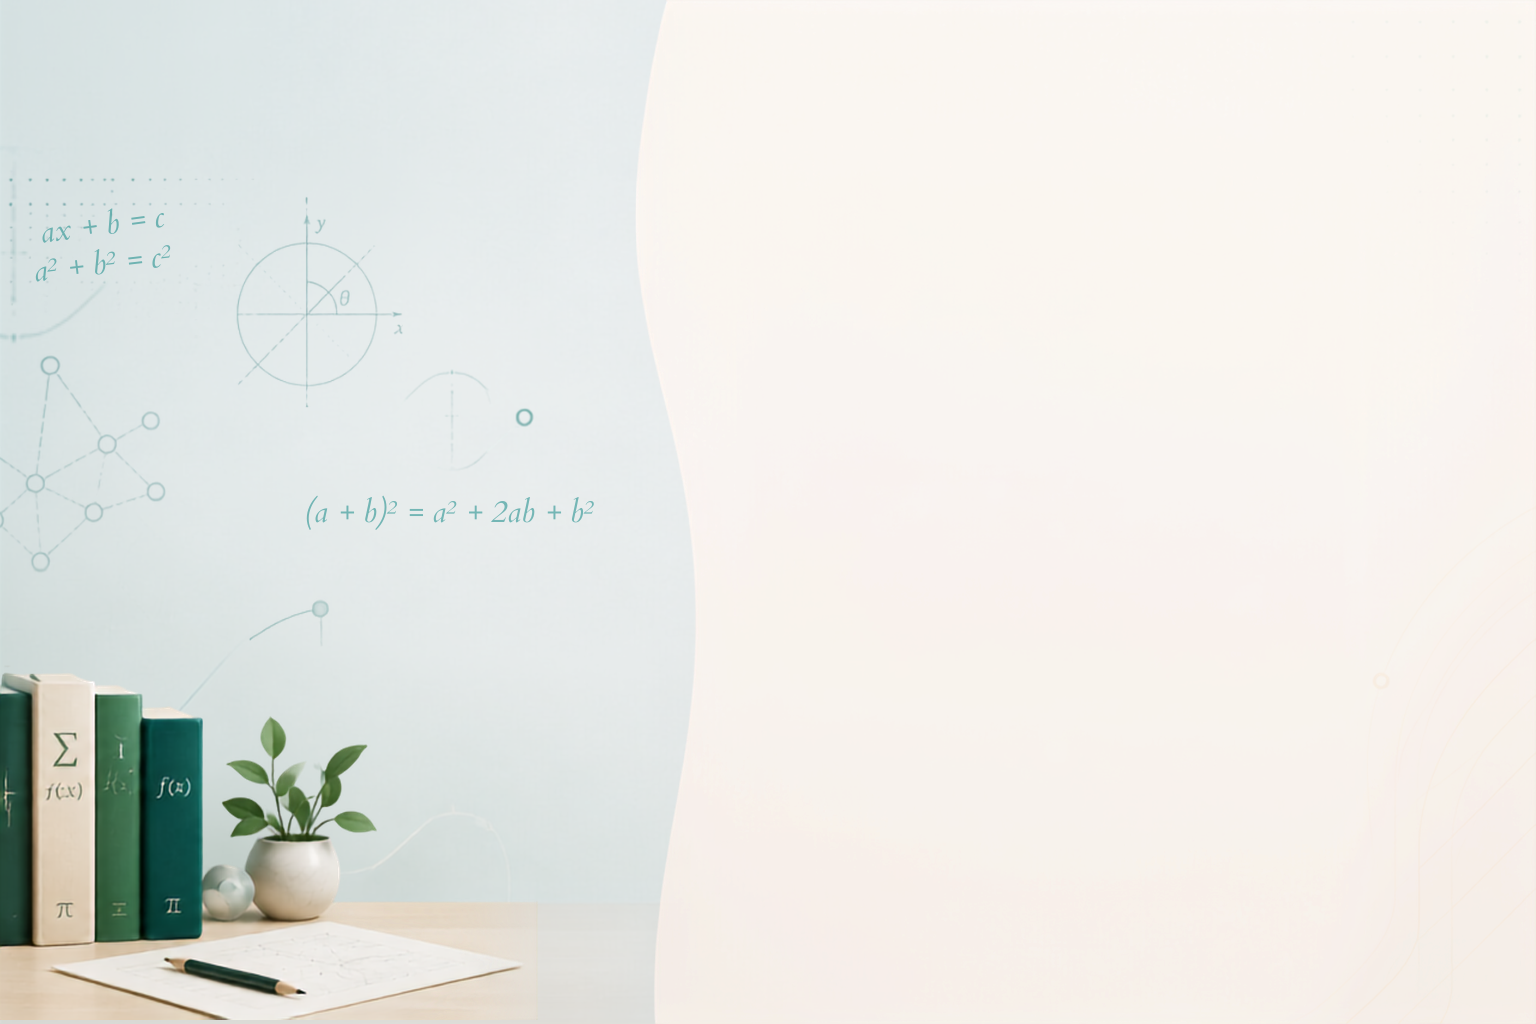
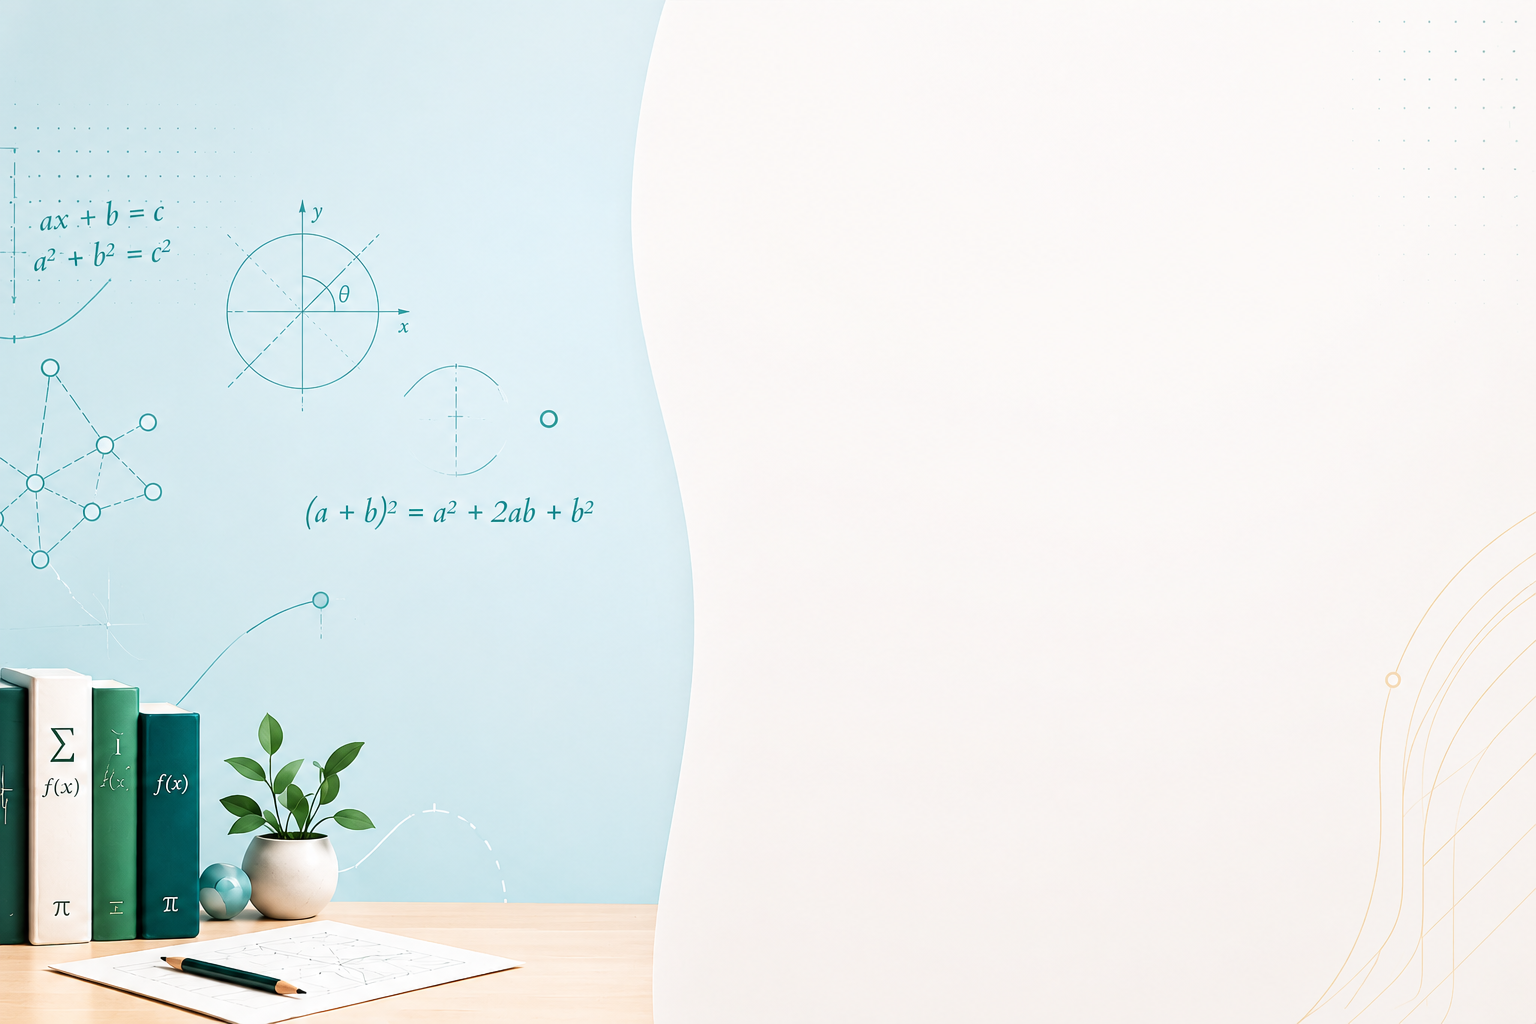
image bg login

diff --git a/src/pages/mahasiswa/StudentDashboard.jsx b/src/pages/mahasiswa/StudentDashboard.jsx
@@ -54,7 +54,7 @@ const StudentDashboard = () => {
     ) : !modulAktif ? (
       <div className="rounded-2xl border border-gray-100 bg-white p-12 text-center text-gray-400">Belum ada modul tersedia.</div>
     ) : <div className="space-y-5">
-      <Motion.section initial={{ opacity: 0, y: 10 }} animate={{ opacity: 1, y: 0 }} className="relative overflow-hidden rounded-2xl bg-gradient-to-r from-blue-800 to-blue-700 p-6 text-white shadow-lg shadow-blue-900/10">
+      <Motion.section initial={{ opacity: 0, y: 10 }} animate={{ opacity: 1, y: 0 }} className="relative overflow-hidden rounded-2xl bg-gradient-to-r from-blue-800 to-blue-700 p-4 text-white shadow-lg shadow-blue-900/10 sm:p-6">
         <div className="pointer-events-none absolute -right-10 -top-12 h-48 w-48 rounded-full bg-white/5" />
         <div className="relative flex flex-col gap-6 sm:flex-row sm:items-end sm:justify-between">
           <div>
@@ -63,11 +63,11 @@ const StudentDashboard = () => {
             <p className="mt-4 text-xs text-blue-100">{progressModul} dari {totalModul} bab lulus</p>
             <div className="mt-2 h-2 w-56 max-w-full overflow-hidden rounded-full bg-white/20"><div className="h-full rounded-full bg-white transition-all" style={{ width: `${persen}%` }} /></div>
           </div>
-          <button onClick={lanjutkan} className="flex h-12 items-center justify-center gap-2 rounded-xl bg-white px-5 text-sm font-bold text-blue-800 shadow-sm transition hover:-translate-y-0.5 hover:bg-blue-50"><Rocket size={17} /> {pretestDone ? "Lanjutkan Belajar" : "Mulai Pretest"}</button>
+          <button onClick={lanjutkan} className="flex h-12 w-full items-center justify-center gap-2 rounded-xl bg-white px-5 text-sm font-bold text-blue-800 shadow-sm transition hover:-translate-y-0.5 hover:bg-blue-50 sm:w-auto"><Rocket size={17} /> {pretestDone ? "Lanjutkan Belajar" : "Mulai Pretest"}</button>
         </div>
       </Motion.section>
 
-      <section className="grid grid-cols-2 gap-3 lg:grid-cols-4">
+      <section className="grid grid-cols-1 gap-3 min-[380px]:grid-cols-2 lg:grid-cols-4">
         {[
           { icon: <BookOpen size={19} />, color: "text-green-600 bg-green-50", label: "Modul Aktif", value: data.modul.length, note: modulAktif.nama_domain },
           { icon: <Circle size={19} />, color: "text-violet-600 bg-violet-50", label: "Bab Lulus", value: `${babLulus.length} / ${semuaBab.length}`, note: `${semuaBab.length - babLulus.length} bab tersisa` },

diff --git a/src/pages/dosen/ManageMateri.jsx b/src/pages/dosen/ManageMateri.jsx
@@ -243,7 +243,7 @@ const ManageMateri = () => {
   return (
     <DashboardLayout role="dosen" title="Kelola Materi" subtitle="Ekstraksi modul PDF, klasifikasi video YouTube, dan struktur Knowledge Graph.">
 
-      <div className="flex gap-2 mb-6 overflow-x-auto pb-1">
+      <div className="-mx-3 mb-6 flex gap-2 overflow-x-auto px-3 pb-2 sm:mx-0 sm:px-0">
         {TABS.map((t) => (
           <button
             key={t.id}
@@ -258,7 +258,7 @@ const ManageMateri = () => {
       </div>
 
       {tab === "pdf" && (
-        <div className="bg-white rounded-2xl shadow-sm border border-gray-100 p-6 max-w-2xl">
+        <div className="max-w-2xl rounded-2xl border border-gray-100 bg-white p-4 shadow-sm sm:p-6">
           <div className="flex items-center gap-3 mb-6">
             <div className="w-10 h-10 rounded-xl bg-blue-50 flex items-center justify-center text-blue-600">
               <FileText size={20} />
@@ -317,7 +317,7 @@ const ManageMateri = () => {
       )}
 
       {tab === "youtube" && (
-        <div className="bg-white rounded-2xl shadow-sm border border-gray-100 p-6 max-w-2xl">
+        <div className="max-w-2xl rounded-2xl border border-gray-100 bg-white p-4 shadow-sm sm:p-6">
           <div className="flex items-center gap-3 mb-6">
             <div className="w-10 h-10 rounded-xl bg-red-50 flex items-center justify-center text-red-600">
               <Youtube size={20} />
@@ -789,7 +789,7 @@ const ManageMateri = () => {
 
           {editKonsepDropdown && <div className="fixed inset-0 z-10" onClick={() => setEditKonsepDropdown(false)} />}
 
-          <div className="flex gap-3 relative z-20">
+          <div className="relative z-20 flex flex-col gap-3 sm:flex-row">
             <button
               onClick={closeEditVideo}
               className="flex-1 py-3 rounded-2xl font-bold bg-gray-100 hover:bg-gray-200 text-gray-700 transition-all"
@@ -818,7 +818,7 @@ const ManageMateri = () => {
             </p>
           </div>
           {deleteVideoError && <p className="text-sm text-red-600 font-medium">{deleteVideoError}</p>}
-          <div className="flex gap-3">
+          <div className="flex flex-col gap-3 sm:flex-row">
             <button
               onClick={() => { setDeleteVideoTarget(null); setDeleteVideoError("") }}
               className="flex-1 py-3 rounded-2xl font-bold bg-gray-100 hover:bg-gray-200 text-gray-700 transition-all"

diff --git a/src/pages/Login.jsx b/src/pages/Login.jsx
@@ -44,7 +44,7 @@ const Login = () => {
     <main className="relative min-h-screen overflow-x-hidden bg-[#F8F5F0] bg-[url('/img/bg-login.png')] bg-cover bg-[position:38%_center] lg:bg-center">
       <div className="absolute inset-0 bg-white/30 sm:bg-white/15 lg:hidden" aria-hidden="true" />
 
-      <div className="relative z-10 grid min-h-screen grid-rows-[1fr_auto] px-4 py-6 sm:px-8 sm:py-8 lg:grid-cols-[43%_57%] lg:grid-rows-[1fr_auto] lg:px-0 lg:py-0">
+      <div className="relative z-10 grid min-h-dvh grid-rows-[1fr_auto] px-3 py-4 sm:px-8 sm:py-8 lg:grid-cols-[43%_57%] lg:grid-rows-[1fr_auto] lg:px-0 lg:py-0">
         <div className="hidden lg:block" aria-hidden="true" />
 
         <section className="flex items-center justify-center lg:px-12 xl:px-20 2xl:px-28">
@@ -52,9 +52,9 @@ const Login = () => {
             initial={{ opacity: 0, y: 18 }}
             animate={{ opacity: 1, y: 0 }}
             transition={{ duration: 0.55, ease: "easeOut" }}
-            className="w-full max-w-[540px] rounded-[28px] border border-white/90 bg-white/94 px-5 py-8 shadow-[0_18px_55px_rgba(38,54,56,0.13)] backdrop-blur-md sm:px-9 sm:py-10 lg:rounded-[42px] lg:px-10 lg:py-12 xl:px-12 xl:py-14"
+            className="w-full max-w-[540px] rounded-[24px] border border-white/90 bg-white/94 px-4 py-6 shadow-[0_18px_55px_rgba(38,54,56,0.13)] backdrop-blur-md sm:rounded-[28px] sm:px-9 sm:py-10 lg:rounded-[42px] lg:px-10 lg:py-12 xl:px-12 xl:py-14"
           >
-            <header className="mb-8 flex items-center gap-4 sm:gap-5">
+            <header className="mb-6 flex items-center gap-3 sm:mb-8 sm:gap-5">
               <div className="flex h-14 w-14 shrink-0 items-center justify-center rounded-full border border-[#F6E3CC] bg-[#FFF5E9] text-gray-900 sm:h-16 sm:w-16">
                 <UserRound size={28} strokeWidth={1.8} aria-hidden="true" />
               </div>
@@ -125,7 +125,7 @@ const Login = () => {
                 </div>
               </div>
 
-              <div className="flex items-center justify-between gap-4 text-xs sm:text-sm">
+              <div className="flex flex-col gap-2 text-xs min-[380px]:flex-row min-[380px]:items-center min-[380px]:justify-between sm:text-sm">
                 <label className="flex cursor-pointer items-center gap-2.5 font-semibold text-gray-700">
                   <input
                     type="checkbox"

diff --git a/src/components/Sidebar.jsx b/src/components/Sidebar.jsx
@@ -47,11 +47,10 @@ const Sidebar = ({ isOpen, setIsOpen, role = "dosen" }) => {
       )}
 
       <aside className={`
-        fixed top-0 left-0 z-50 h-screen bg-white border-r border-gray-200 transition-transform duration-300 ease-in-out shadow-[4px_0_24px_rgba(17,24,39,0.025)]
-        w-64 lg:translate-x-0
+        fixed left-0 top-0 z-50 h-dvh w-[min(18rem,86vw)] border-r border-gray-200 bg-white shadow-[4px_0_24px_rgba(17,24,39,0.025)] transition-transform duration-300 ease-in-out sm:w-64 lg:translate-x-0
         ${isOpen ? "translate-x-0" : "-translate-x-full"}
       `}>
-        <div className="px-5 py-6 flex justify-between items-center border-b border-gray-100">
+        <div className="flex items-center justify-between border-b border-gray-100 px-5 pb-4 pt-[max(1.25rem,env(safe-area-inset-top))]">
           <h1 className="text-xl font-semibold text-gray-900 flex items-center gap-3">
             <div className="w-9 h-9 bg-blue-700 rounded-xl shrink-0 flex items-center justify-center text-white shadow-sm">
               {role === "mahasiswa" ? <GraduationCap size={18} /> : role === "admin" ? <ShieldCheck size={18} /> : <LayoutDashboard size={18} />}
@@ -63,7 +62,7 @@ const Sidebar = ({ isOpen, setIsOpen, role = "dosen" }) => {
           </button>
         </div>
 
-        <nav className="flex-1 px-3 py-5 space-y-1 overflow-y-auto h-[calc(100vh-166px)]">
+        <nav className="h-[calc(100dvh-158px)] flex-1 space-y-1 overflow-y-auto px-3 py-4">
           {menuItems.map((item) => {
             const isActive = location.pathname.startsWith(item.path)
             return (
@@ -88,7 +87,7 @@ const Sidebar = ({ isOpen, setIsOpen, role = "dosen" }) => {
           })}
         </nav>
 
-        <div className="absolute bottom-0 left-0 w-full p-4 border-t border-gray-100 bg-white">
+        <div className="absolute bottom-0 left-0 w-full border-t border-gray-100 bg-white px-4 pb-[max(1rem,env(safe-area-inset-bottom))] pt-3">
           <button onClick={handleLogout} className="w-full flex items-center gap-3 px-4 py-3 text-sm text-red-500 hover:bg-red-50 rounded-xl transition-colors">
             <LogOut size={20} />
             <span>Keluar</span>

diff --git a/src/components/DashboardLayout.jsx b/src/components/DashboardLayout.jsx
@@ -16,12 +16,12 @@ const DashboardLayout = ({ role = "dosen", title, subtitle, children }) => {
   }
 
   return (
-    <div className="flex min-h-screen bg-[#F6F7F8] font-sans text-gray-900">
+    <div className="flex min-h-dvh bg-[#F6F7F8] font-sans text-gray-900">
       <Sidebar isOpen={isSidebarOpen} setIsOpen={setIsSidebarOpen} role={role} />
 
-      <main className="flex-1 lg:ml-64 transition-all duration-300">
-        <header className="lg:hidden bg-white/90 backdrop-blur-xl border-b border-gray-200 px-4 py-3 sticky top-0 z-30 flex justify-between items-center">
-          <h1 className="font-display font-semibold text-blue-700">MathDasar</h1>
+      <main className="min-w-0 flex-1 transition-all duration-300 lg:ml-64">
+        <header className="sticky top-0 z-30 flex items-center justify-between border-b border-gray-200 bg-white/90 px-3 py-2.5 backdrop-blur-xl sm:px-5 lg:hidden">
+          <div className="min-w-0"><h1 className="truncate font-display font-semibold text-blue-700">MathDasar</h1><p className="truncate text-[11px] capitalize text-gray-400">{user.role || role}</p></div>
           <button
             onClick={() => setIsSidebarOpen(true)}
             className="p-2 bg-gray-100 rounded-lg"
@@ -59,10 +59,10 @@ const DashboardLayout = ({ role = "dosen", title, subtitle, children }) => {
           </div>
         </div>
 
-        <div className="p-4 md:p-8 max-w-7xl mx-auto">
+        <div className="mx-auto w-full max-w-7xl px-3 pb-[max(1rem,env(safe-area-inset-bottom))] pt-4 sm:px-5 md:p-8">
           {(title || subtitle) && (
             <div className="mb-8 max-w-3xl">
-              {title && <h1 className="text-2xl md:text-3xl font-semibold text-gray-900">{title}</h1>}
+              {title && <h1 className="text-xl font-semibold leading-tight text-gray-900 sm:text-2xl md:text-3xl">{title}</h1>}
               {subtitle && <p className="text-sm text-gray-500 mt-1.5 leading-relaxed">{subtitle}</p>}
             </div>
           )}

diff --git a/src/components/Modal.jsx b/src/components/Modal.jsx
@@ -8,7 +8,7 @@ const Modal = ({ open, onClose, title, children }) => (
         initial={{ opacity: 0 }}
         animate={{ opacity: 1 }}
         exit={{ opacity: 0 }}
-        className="fixed inset-0 bg-black/50 z-[60] flex items-center justify-center p-4"
+        className="fixed inset-0 z-[60] flex items-end justify-center bg-black/50 p-0 sm:items-center sm:p-4"
         onClick={onClose}
       >
         <motion.div
@@ -16,12 +16,12 @@ const Modal = ({ open, onClose, title, children }) => (
           animate={{ opacity: 1, y: 0, scale: 1 }}
           exit={{ opacity: 0, y: 20, scale: 0.98 }}
           transition={{ duration: 0.2 }}
-          className="bg-white rounded-3xl shadow-2xl w-full max-w-lg max-h-[85vh] overflow-y-auto p-6 md:p-8"
+          className="max-h-[92dvh] w-full max-w-lg overflow-y-auto overscroll-contain rounded-t-3xl bg-white p-4 pb-[max(1rem,env(safe-area-inset-bottom))] shadow-2xl sm:max-h-[85dvh] sm:rounded-3xl sm:p-6 md:p-8"
           onClick={(e) => e.stopPropagation()}
         >
-          <div className="flex items-center justify-between mb-6">
-            <h2 className="text-lg font-bold text-gray-900">{title}</h2>
-            <button onClick={onClose} className="p-2 rounded-full hover:bg-gray-100 text-gray-400 hover:text-gray-700 transition-colors">
+          <div className="sticky -top-4 z-10 mb-5 flex items-center justify-between gap-3 border-b border-gray-100 bg-white py-3 sm:static sm:mb-6 sm:border-0 sm:py-0">
+            <h2 className="min-w-0 text-base font-bold text-gray-900 sm:text-lg">{title}</h2>
+            <button onClick={onClose} className="flex h-11 w-11 shrink-0 items-center justify-center rounded-full text-gray-400 transition-colors hover:bg-gray-100 hover:text-gray-700" aria-label="Tutup dialog">
               <X size={20} />
             </button>
           </div>

diff --git a/src/pages/dosen/ManageSoal.jsx b/src/pages/dosen/ManageSoal.jsx
@@ -234,7 +234,7 @@ const ManageSoal = () => {
       ) : (
         <section className="overflow-hidden rounded-2xl border border-gray-100 bg-white shadow-sm">
           <div className="flex flex-col gap-4 border-b border-gray-100 p-5 sm:flex-row sm:items-center sm:justify-between">
-            <div className="flex gap-6">
+            <div className="flex gap-4 overflow-x-auto pb-1 sm:gap-6">
               <button type="button" onClick={() => setActiveTab("semua")} className={`flex items-center gap-2 border-b-2 pb-3 text-sm font-bold transition-colors ${activeTab === "semua" ? "border-blue-600 text-blue-700" : "border-transparent text-gray-400 hover:text-gray-700"}`}>
                 <ListChecks size={16} /> Semua Soal <span className="rounded-md bg-gray-100 px-1.5 py-0.5 text-[10px] text-gray-500">{totalSoal}</span>
               </button>
@@ -331,7 +331,7 @@ const ManageSoal = () => {
             />
           </div>
 
-          <div className="grid grid-cols-2 gap-4">
+          <div className="grid grid-cols-1 gap-4 sm:grid-cols-2">
             <div className="space-y-1">
               <label className="text-xs font-black text-slate-400 uppercase tracking-widest ml-1">Tipe</label>
               <select
@@ -442,7 +442,7 @@ const ManageSoal = () => {
                 />
               </div>
 
-              <div className="grid grid-cols-2 gap-4">
+              <div className="grid grid-cols-1 gap-4 sm:grid-cols-2">
                 <div className="space-y-1">
                   <label className="text-xs font-black text-slate-400 uppercase tracking-widest ml-1">Tipe</label>
                   <select

diff --git a/src/pages/mahasiswa/UjianModul.jsx b/src/pages/mahasiswa/UjianModul.jsx
@@ -18,7 +18,7 @@ const UjianModul = () => {
           const selesai = modul.bab.filter((bab) => ["lanjut", "pengayaan"].includes(progressMap[bab.id]?.status)).length
           const ujian = data.ujian_modul.find((item) => item.modul_id === modul.id) || {}
           const pretestSelesai = ["menunggu_penilaian", "dinilai"].includes(ujian.pretest)
-          return <article key={modul.id} className="flex min-h-64 flex-col rounded-2xl border border-gray-100 bg-white p-6 shadow-sm transition hover:-translate-y-0.5 hover:border-blue-200 hover:shadow-md">
+          return <article key={modul.id} className="flex min-h-64 flex-col rounded-2xl border border-gray-100 bg-white p-4 shadow-sm transition hover:-translate-y-0.5 hover:border-blue-200 hover:shadow-md sm:p-6">
             <span className="mb-5 flex h-12 w-12 items-center justify-center rounded-xl bg-blue-50 text-blue-700"><BookOpen size={22} /></span>
             <h2 className="text-lg font-semibold text-gray-900">{modul.nama_domain}</h2><p className="mt-1 text-sm text-gray-400">{modul.bab.length} bab</p>
             <div className="mt-5 flex-1 space-y-2 text-xs"><p className={`flex items-center gap-2 ${pretestSelesai ? "text-green-700" : "text-amber-700"}`}><CheckCircle2 size={14} /> Pretest {pretestSelesai ? "selesai" : "belum dikerjakan"}</p><p className="text-gray-500">Progres bab: {selesai}/{modul.bab.length} selesai</p></div>

diff --git a/src/pages/admin/RoleAccounts.jsx b/src/pages/admin/RoleAccounts.jsx
@@ -64,9 +64,9 @@ export default function RoleAccounts({ role }) {
   }
 
   return <DashboardLayout role="admin" title={`Kelola ${label}`} subtitle={`Tambah akun dan atur status ${label.toLowerCase()}.`}>
-    <div className="mb-6 flex items-center justify-between rounded-2xl border border-gray-100 bg-white p-5 shadow-sm">
+    <div className="mb-6 flex flex-col gap-4 rounded-2xl border border-gray-100 bg-white p-4 shadow-sm sm:flex-row sm:items-center sm:justify-between sm:p-5">
       <div><p className="text-sm text-gray-500">Total {label}</p><p className="mt-1 text-3xl font-bold text-gray-900">{users.length}</p></div>
-      <button onClick={() => setFormOpen(true)} className="flex items-center gap-2 rounded-xl bg-blue-700 px-4 py-3 text-sm font-bold text-white shadow-lg shadow-blue-100"><Plus size={17}/> Tambah {label}</button>
+      <button onClick={() => setFormOpen(true)} className="flex w-full items-center justify-center gap-2 rounded-xl bg-blue-700 px-4 py-3 text-sm font-bold text-white shadow-lg shadow-blue-100 sm:w-auto"><Plus size={17}/> Tambah {label}</button>
     </div>
     {message && <div className="mb-4 rounded-xl bg-green-50 p-4 text-green-700">{message}</div>}
     {error && <div className="mb-4 rounded-xl bg-red-50 p-4 text-red-600">{error}</div>}

diff --git a/src/pages/admin/AdminDashboard.jsx b/src/pages/admin/AdminDashboard.jsx
@@ -24,7 +24,7 @@ export default function AdminDashboard() {
     <DashboardLayout role="admin" title="Dashboard Admin" subtitle="Daftar seluruh akun yang terdaftar di sistem matrikulasi.">
       {error && <div className="mb-5 rounded-xl bg-red-50 p-4 text-red-600">{error}</div>}
 
-      {summary && <section className="mb-6 grid grid-cols-2 gap-4 lg:grid-cols-4">
+      {summary && <section className="mb-6 grid grid-cols-1 gap-3 min-[380px]:grid-cols-2 lg:grid-cols-4 lg:gap-4">
         {[['Admin', summary.jumlah_admin], ['Dosen', summary.jumlah_dosen], ['Mahasiswa', summary.jumlah_mahasiswa], ['Akun Aktif', summary.jumlah_aktif]].map(([label, value]) =>
           <article key={label} className="rounded-2xl border border-gray-100 bg-white p-5 shadow-sm"><p className="text-sm text-gray-500">{label}</p><p className="mt-2 text-3xl font-bold text-gray-900">{value}</p></article>
         )}
@@ -40,7 +40,7 @@ export default function AdminDashboard() {
         </div>
 
         <div className="overflow-x-auto">
-          <table className="w-full text-sm">
+          <table className="w-full min-w-[680px] text-sm">
             <thead className="bg-gray-50/60">
               <tr>
                 <th className="p-4 text-left">Nama</th>

diff --git a/src/index.css b/src/index.css
@@ -58,6 +58,8 @@
 
 html {
   background: var(--canvas);
+  overflow-x: hidden;
+  -webkit-text-size-adjust: 100%;
 }
 
 body {
@@ -67,6 +69,27 @@ body {
   background:
     radial-gradient(circle at 92% 4%, rgb(94 234 212 / 8%), transparent 28rem),
     var(--canvas);
+  overflow-x: hidden;
+}
+
+img,
+video,
+canvas,
+svg {
+  max-width: 100%;
+}
+
+button,
+input,
+select,
+textarea {
+  max-width: 100%;
+}
+
+p,
+td,
+th {
+  overflow-wrap: anywhere;
 }
 
 h1,
@@ -85,6 +108,41 @@ input,
 select,
 textarea {
   -webkit-tap-highlight-color: transparent;
+}
+
+@media (max-width: 639px) {
+  input,
+  select,
+  textarea {
+    font-size: 16px;
+  }
+
+  button,
+  a,
+  input,
+  select {
+    min-height: 44px;
+  }
+
+  .overflow-x-auto {
+    -webkit-overflow-scrolling: touch;
+    scrollbar-width: thin;
+  }
+
+  .overflow-x-auto > table {
+    min-width: 640px;
+  }
+}
+
+@media (prefers-reduced-motion: reduce) {
+  *,
+  *::before,
+  *::after {
+    scroll-behavior: auto !important;
+    animation-duration: 0.01ms !important;
+    animation-iteration-count: 1 !important;
+    transition-duration: 0.01ms !important;
+  }
 }
 
 button:not(:disabled),

diff --git a/src/pages/dosen/DosenDashboard.jsx b/src/pages/dosen/DosenDashboard.jsx
@@ -30,7 +30,7 @@ const DosenDashboard = () => {
 
   return (
     <DashboardLayout role="dosen" title="Dashboard Overview" subtitle="Pantau progres materi, soal, dan penilaian mahasiswa.">
-      <div className="grid grid-cols-1 sm:grid-cols-2 lg:grid-cols-4 gap-4 md:gap-6 mb-8">
+      <div className="mb-8 grid grid-cols-1 gap-3 min-[380px]:grid-cols-2 md:gap-6 lg:grid-cols-4">
         <StatCard
           title="Mahasiswa Aktif"
           value={loading ? "-" : stats?.jumlah_mahasiswa_aktif ?? 0}
@@ -81,7 +81,7 @@ const DosenDashboard = () => {
               initial={{ opacity: 0, y: 10 }}
               animate={{ opacity: 1, y: 0 }}
               transition={{ delay: index * 0.03 }}
-              className="p-4 rounded-xl border border-gray-100 bg-gray-50/30 flex items-center justify-between gap-3"
+              className="flex items-center justify-between gap-3 rounded-xl border border-gray-100 bg-gray-50/30 p-3 sm:p-4"
             >
               <div className="min-w-0">
                 <p className="font-bold text-sm text-gray-900 truncate">{item.mahasiswa_nama}</p>
